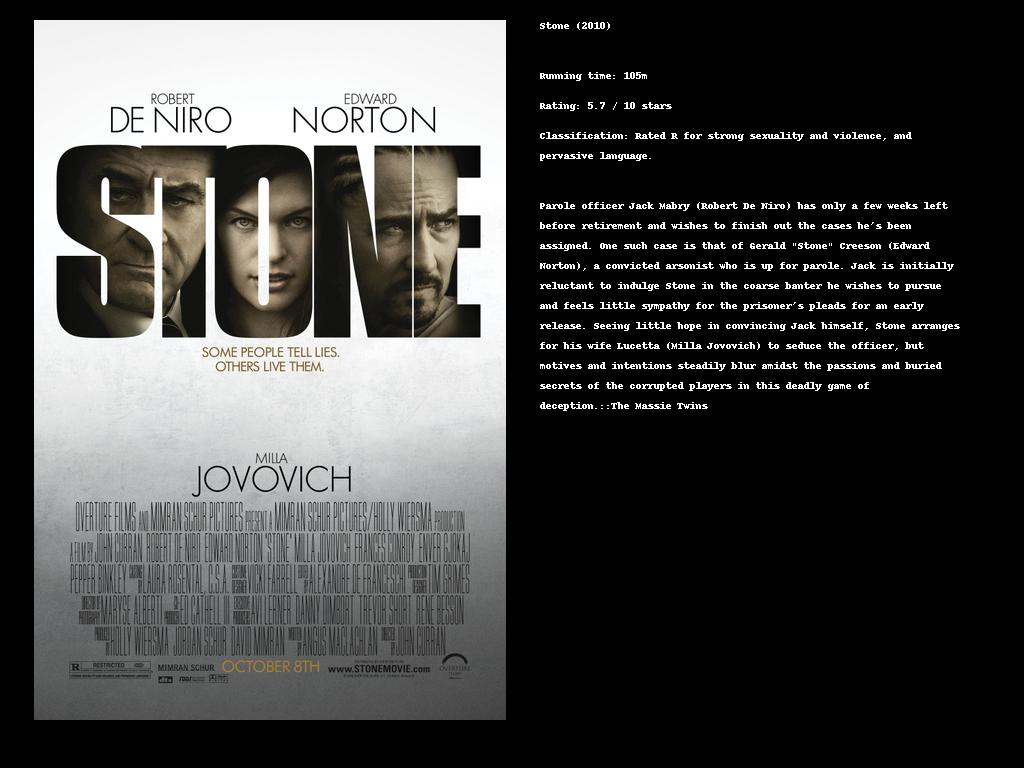
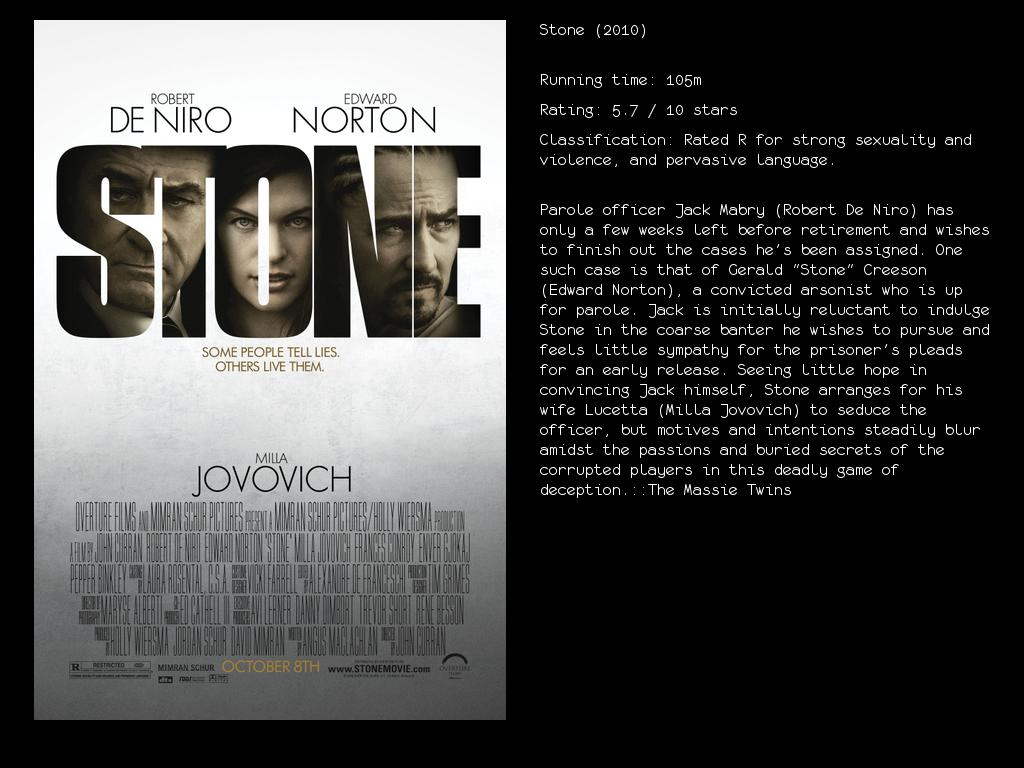
Added Truetype font support
Also added a really simple test to the test script

Changed region(s): [[0.5312, 0.25, 0.9688, 0.6562], [0.5312, 0.0938, 0.9062, 0.2188], [0.5312, 0.0312, 0.625, 0.0625]]

diff --git a/imdbposter.py b/imdbposter.py
@@ -39,7 +39,7 @@
 VERBOSE = False
 QUIET = False
 
-# TODO: Add options for where to save the poster
+# TODO: Add options for where to save the poster (output, prefix, ?)
 
 # This option is useful for bulk runs
 # True results in an interactive mode, False results in a best-guess mode
@@ -58,7 +58,9 @@ TEXT_AREA_LEFT      = 540
 TEXT_AREA_TOP       = CANVAS_SPACING
 TEXT_AREA_SPACING   = 30
 TEXT_AREA_DIVISION  = TEXT_AREA_SPACING + 20
-TEXT_WRAP           = 70
+TEXT_WRAP           = 50
+FONT_PATH           = '/home/steve/code/imdbposter/monofur.ttf'
+FONT_SIZE           = 18
 
 
 
@@ -133,6 +135,12 @@ def createImage(movie):
     im = Image.new('RGB', (CANVAS_WIDTH, CANVAS_HEIGHT))
     draw = ImageDraw.Draw(im)
 
+    # Attempt to load a true type font to make it look nicer
+    try:
+        font = ImageFont.truetype(FONT_PATH, FONT_SIZE)
+    except:
+        font = None
+
     # Get the cover image and place it in the center of the canvas
     cover = getCover(movie)
     coverX = CANVAS_SPACING + (COVER_AREA_WIDTH  / 2) - (cover.size[0] / 2)
@@ -146,7 +154,7 @@ def createImage(movie):
         title = movie['title']
     else:
         title = "The movie you requested could not be found"
-    draw.text((TEXT_AREA_LEFT,y), title)
+    draw.text((TEXT_AREA_LEFT,y), title, font=font)
     
     y += TEXT_AREA_DIVISION
 
@@ -155,7 +163,7 @@ def createImage(movie):
         runtime = movie['runtimes'][0] + "m"
     else:
         runtime = "N/A"
-    draw.text((TEXT_AREA_LEFT,y), "Running time: " + runtime)
+    draw.text((TEXT_AREA_LEFT,y), "Running time: " + runtime, font=font)
 
     y += TEXT_AREA_SPACING
 
@@ -164,7 +172,7 @@ def createImage(movie):
         rating = "%.1f / 10 stars" % movie['rating']
     else:
         rating = "N/A"
-    draw.text((TEXT_AREA_LEFT,y), "Rating: " + rating)
+    draw.text((TEXT_AREA_LEFT,y), "Rating: " + rating, font=font)
 
     y += TEXT_AREA_SPACING
 
@@ -176,7 +184,7 @@ def createImage(movie):
     # Wrap the text at the TEXT_WRAP character limit
     text = textwrap.wrap("Classification: " + classification, TEXT_WRAP)
     for line in text:
-        draw.text((TEXT_AREA_LEFT,y), line)
+        draw.text((TEXT_AREA_LEFT,y), line, font=font)
         y += CANVAS_SPACING
 
     y += TEXT_AREA_DIVISION - CANVAS_SPACING
@@ -191,7 +199,7 @@ def createImage(movie):
     # Wrap the text at the TEXT_WRAP character limit
     text = textwrap.wrap(plot, TEXT_WRAP)
     for line in text:
-        draw.text((TEXT_AREA_LEFT,y), line)
+        draw.text((TEXT_AREA_LEFT,y), line, font=font)
         y += CANVAS_SPACING
 
     # Save the image as a file and return its name
